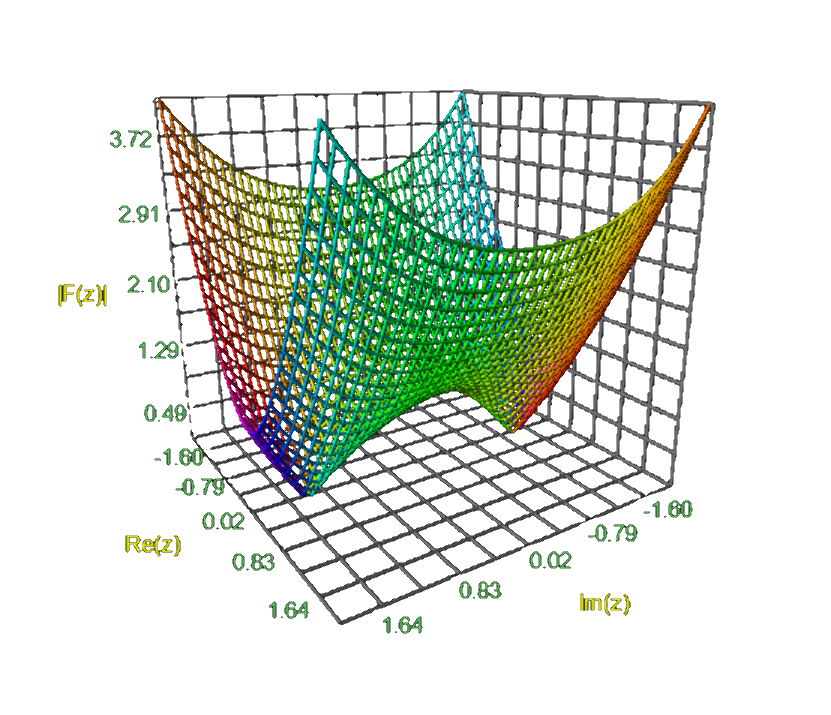
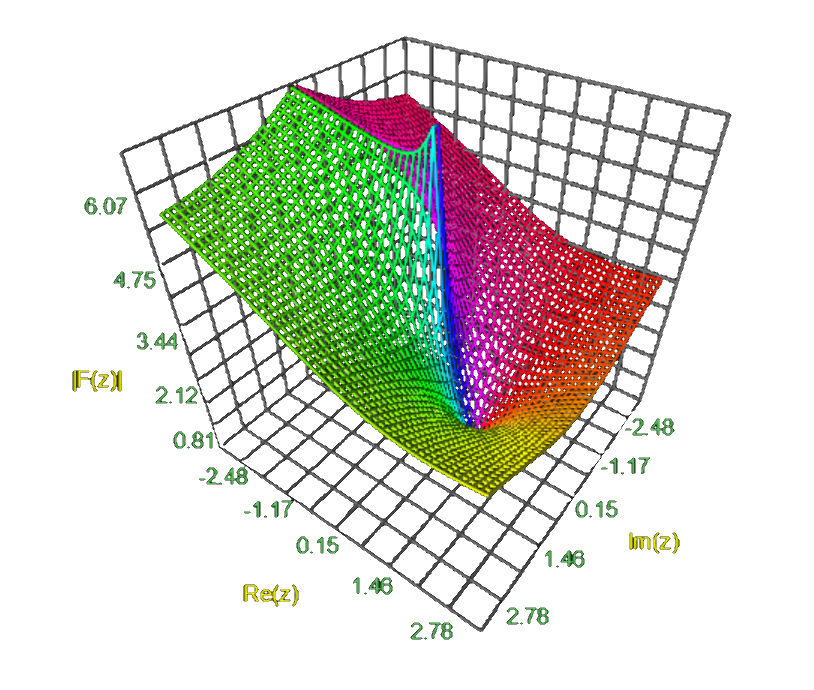
Updated picture

diff --git a/mathematics/glowscript/ComplexContourPlot.html b/mathematics/glowscript/ComplexContourPlot.html
@@ -1937,11 +1937,13 @@ return this.__repr__();
 
         "559";
         async function f_z(x, y, i, j) {
-            var ρσ_ls, z;
+            var ρσ_ls, z, _GS_1;
             "560";
             z = (await math.complex(ρσ_getitem(ρσ_getitem(x, i), j), ρσ_getitem(ρσ_getitem(y, i), j)));
             "561";
-            return (await math.log(z));
+            _GS_1 = new ComplexNumber;
+            (await _GS_1.__init__(2, 0));
+            return (await math.multiply(_GS_1, (await math.log(z))));
         };
         if (!f_z.__argnames__) Object.defineProperties(f_z, {
             __argnames__ : {value: ["x", "y", "i", "j"]},
@@ -2125,7 +2127,7 @@ return this.__repr__();
     });
 
     "598";
-    z_plus_one_over_z_title = "$\\psi(z) = z + \\bigg(\\dfrac{1}{z}\\bigg)$";
+    z_plus_one_over_z_title = "$\\psi(z) = \\dfrac{1}[2}\\left(z + \\dfrac{1}{z}\\right)$";
     "599";
     async function z_plus_one_over_z() {
         var resolution = (arguments[0] === undefined || ( 0 === arguments.length["-"](1) && arguments[arguments.length["-"](1)] !== null && typeof arguments[arguments.length["-"](1)] === "object" && arguments[arguments.length["-"](1)] [ρσ_kwargs_symbol] === true)) ? z_plus_one_over_z.__defaults__.resolution : arguments[0];

diff --git a/mathematics/glowscript/ComplexSurfacePlot.html b/mathematics/glowscript/ComplexSurfacePlot.html
@@ -1937,11 +1937,13 @@ return this.__repr__();
 
         "559";
         async function f_z(x, y, i, j) {
-            var ρσ_ls, z;
+            var ρσ_ls, z, _GS_1;
             "560";
             z = (await math.complex(ρσ_getitem(ρσ_getitem(x, i), j), ρσ_getitem(ρσ_getitem(y, i), j)));
             "561";
-            return (await math.log(z));
+            _GS_1 = new ComplexNumber;
+            (await _GS_1.__init__(2, 0));
+            return (await math.multiply(_GS_1, (await math.log(z))));
         };
         if (!f_z.__argnames__) Object.defineProperties(f_z, {
             __argnames__ : {value: ["x", "y", "i", "j"]},
@@ -2125,7 +2127,7 @@ return this.__repr__();
     });
 
     "598";
-    z_plus_one_over_z_title = "$\\psi(z) = z + \\bigg(\\dfrac{1}{z}\\bigg)$";
+    z_plus_one_over_z_title = "$\\psi(z) = \\dfrac{1}[2}\\left(z + \\dfrac{1}{z}\\right)$";
     "599";
     async function z_plus_one_over_z() {
         var resolution = (arguments[0] === undefined || ( 0 === arguments.length["-"](1) && arguments[arguments.length["-"](1)] !== null && typeof arguments[arguments.length["-"](1)] === "object" && arguments[arguments.length["-"](1)] [ρσ_kwargs_symbol] === true)) ? z_plus_one_over_z.__defaults__.resolution : arguments[0];

diff --git a/mathematics/glowscript/complex_functions.py b/mathematics/glowscript/complex_functions.py
@@ -558,7 +558,7 @@ def log_z(resolution=50):
 
     def f_z(x, y, i, j):
         z = math.complex(x[i][j], y[i][j])
-        return math.log(z)
+        return math.multiply(ComplexNumber(2, 0), math.log(z))
 
     return NumpyWrapper(-pi, pi, -pi, pi, resolution).get_plot_data(f_x, f_y, f_z)
 
